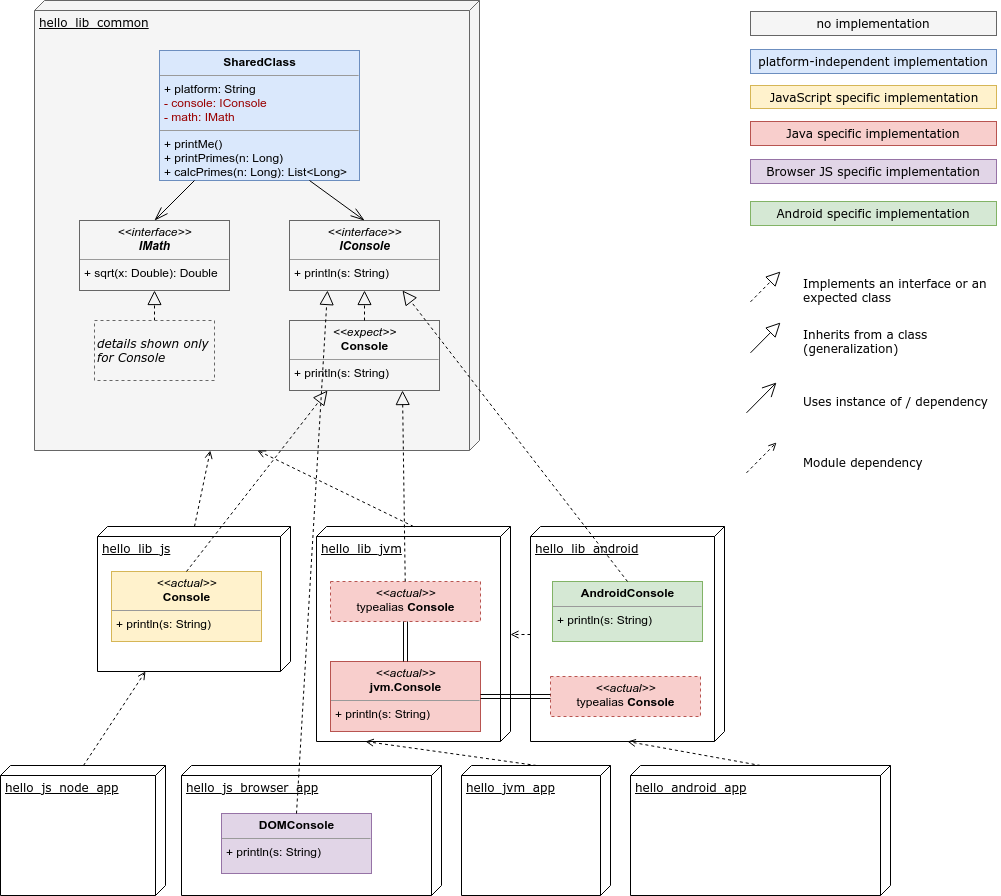
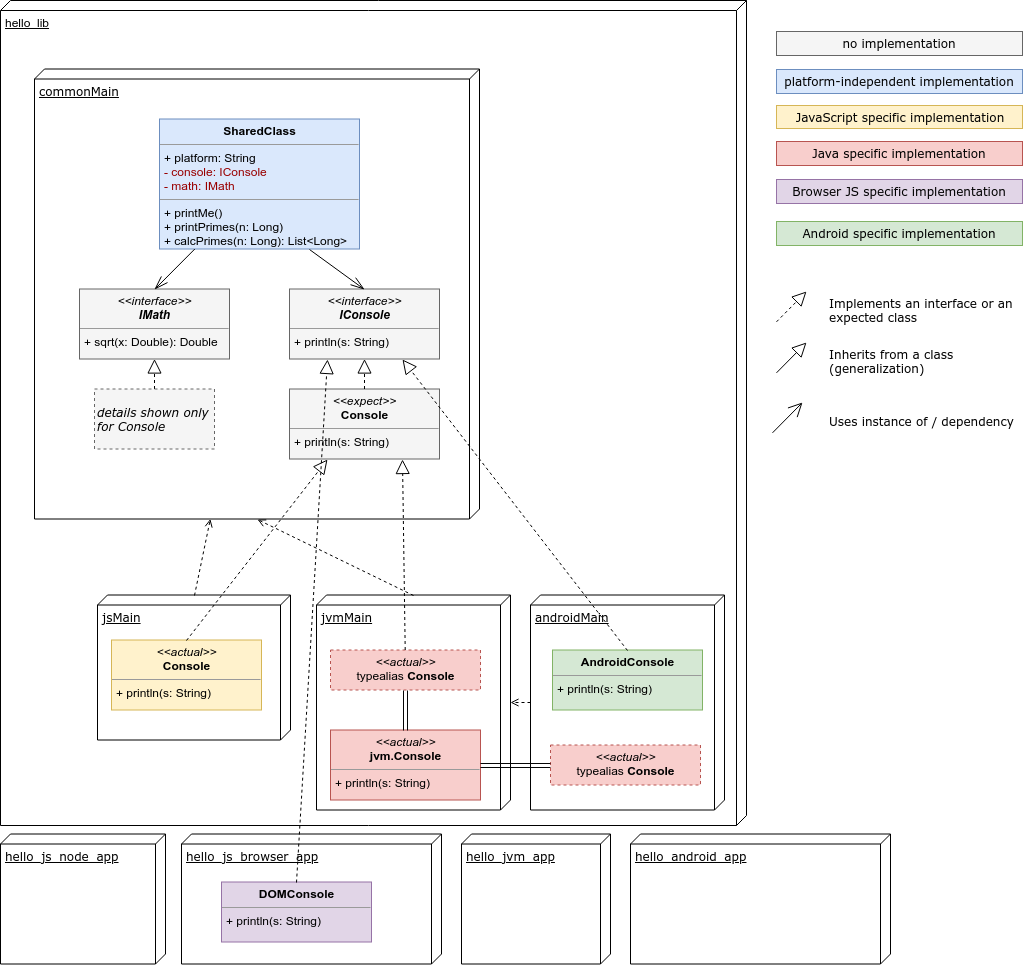
README and diagrams updated to match kotlin-multiplatform plugin use

diff --git a/README.md b/README.md
@@ -2,11 +2,15 @@
 
 This project demonstrates sharing runtime independent code between different Kotlin's runtimes ([Java](http://www.java.com)/[Android](https://developer.android.com/index.html)/[JavaScript](https://en.wikipedia.org/wiki/JavaScript)). It uses [Gradle](http://gradle.org/) build engine.
 
-It uses new **Kotlin 1.2** features regarding multiplatform modules - see this blog posts:
+It uses new support for multiplatform modules with plugin `kotlin-multiplatform`.
+* [Multiplatform library guide](https://kotlinlang.org/docs/tutorials/multiplatform-library.html) 
+
+Applications are built using features available from **Kotlin 1.2** regarding multiplatform modules - see this blog posts:
 * [Kotlin 1.2 Released: Sharing Code between Platforms](https://blog.jetbrains.com/kotlin/2017/11/kotlin-1-2-released/)
 * [Webinar recording: Developing Multiplatform Projects in Kotlin 1.2](https://blog.jetbrains.com/kotlin/2017/12/webinar-recording-developing-multiplatform-projects-in-kotlin-1-2/)
 
-Older implementation that used various hacks was moved to [old-multiplatform](https://github.com/wojta/hello-kotlin/tree/old-multiplatform) branch.
+Older implementation that didn't use `kotlin-multiplatform` plugin and various hacks was moved to [old-multiplatform](https://github.com/wojta/hello-kotlin/tree/old-platform-modules) branch.
+Oldest implementation that used various hacks was moved to [old-multiplatform](https://github.com/wojta/hello-kotlin/tree/old-multiplatform) branch.
 
 ## What is Kotlin?
 [![Kotlin](https://upload.wikimedia.org/wikipedia/commons/b/b5/Kotlin-logo.png)
@@ -24,10 +28,15 @@ It's the Gradle multiple modules project.
 * ``hello_js_browser_app`` - application transpiled for frontend JavaScript, packed in [WebPack](https://webpack.js.org/), it's only statically served by Node.js
 * ``hello_js_node_app`` - console application transpiled to Node.js JavaScript 
 * ``hello_jvm_app`` - console application compiled to Java bytecode for JVM, produces JAR that can be executed by eg. Oracle JVM
-* ``hello_lib_common`` - common module, shared Kotlin source code, platform independent code
-* ``hello_lib_js`` - JavaScript runtimes platform dependent code
-* ``hello_lib_jvm`` - Java runtime platform dependent code 
-* ``hello_lib_android`` - Android runtime platform dependent code
+* ``hello_lib`` - multiplatform library project, with shared and platform specific code
+    * ``commonMain`` - shared Kotlin source code, platform independent code
+    * ``commonTest`` - shared tests, platform independent tests
+    * ``jsMain`` - JavaScript runtimes platform dependent code
+    * ``jsTest`` - JavaScript runtimes specific tests
+    * ``jvmMain`` - Java runtime platform dependent code
+    * ``jvmTest`` - Java runtime specific tests 
+    * ``androidMain`` - Android runtime platform dependent code
+    * ``androidTest`` - Android runtime specific tests
 
 [Modules dependency](.images/diagram_simple.png)
 
@@ -42,7 +51,6 @@ It's the Gradle multiple modules project.
 _Note: Ordinary console output can be done by `println()` function from Kotlin Standard Library._
 
 [Implementation in modules](.images/diagram_detailed.png)
-
 
 ## Building and running the demo
 It was checked only under Linux Mint, probably there won't be any problems with most Unix-like environments.
